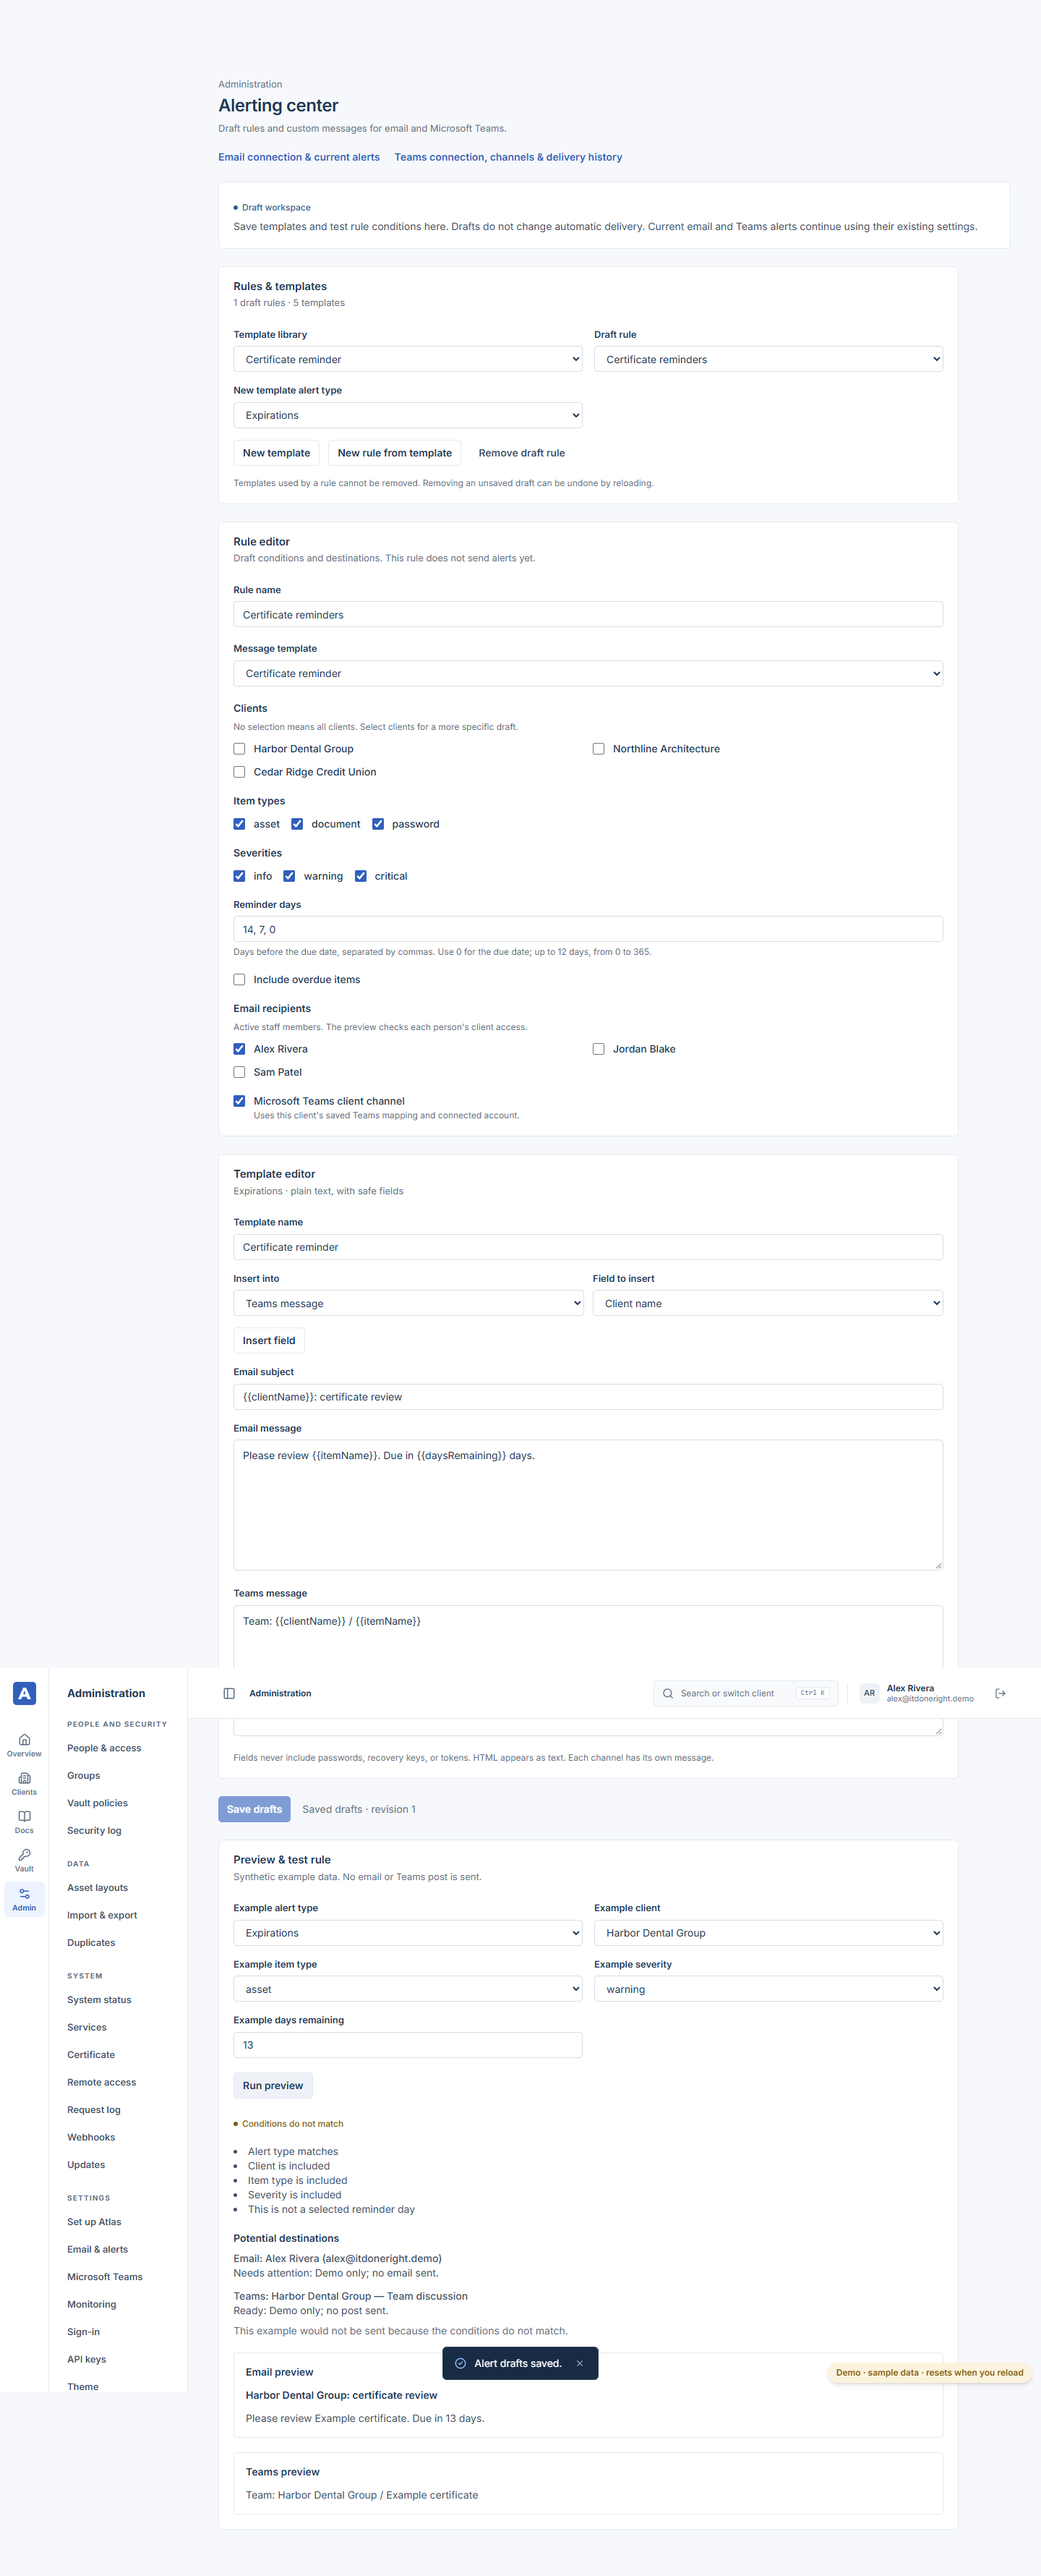
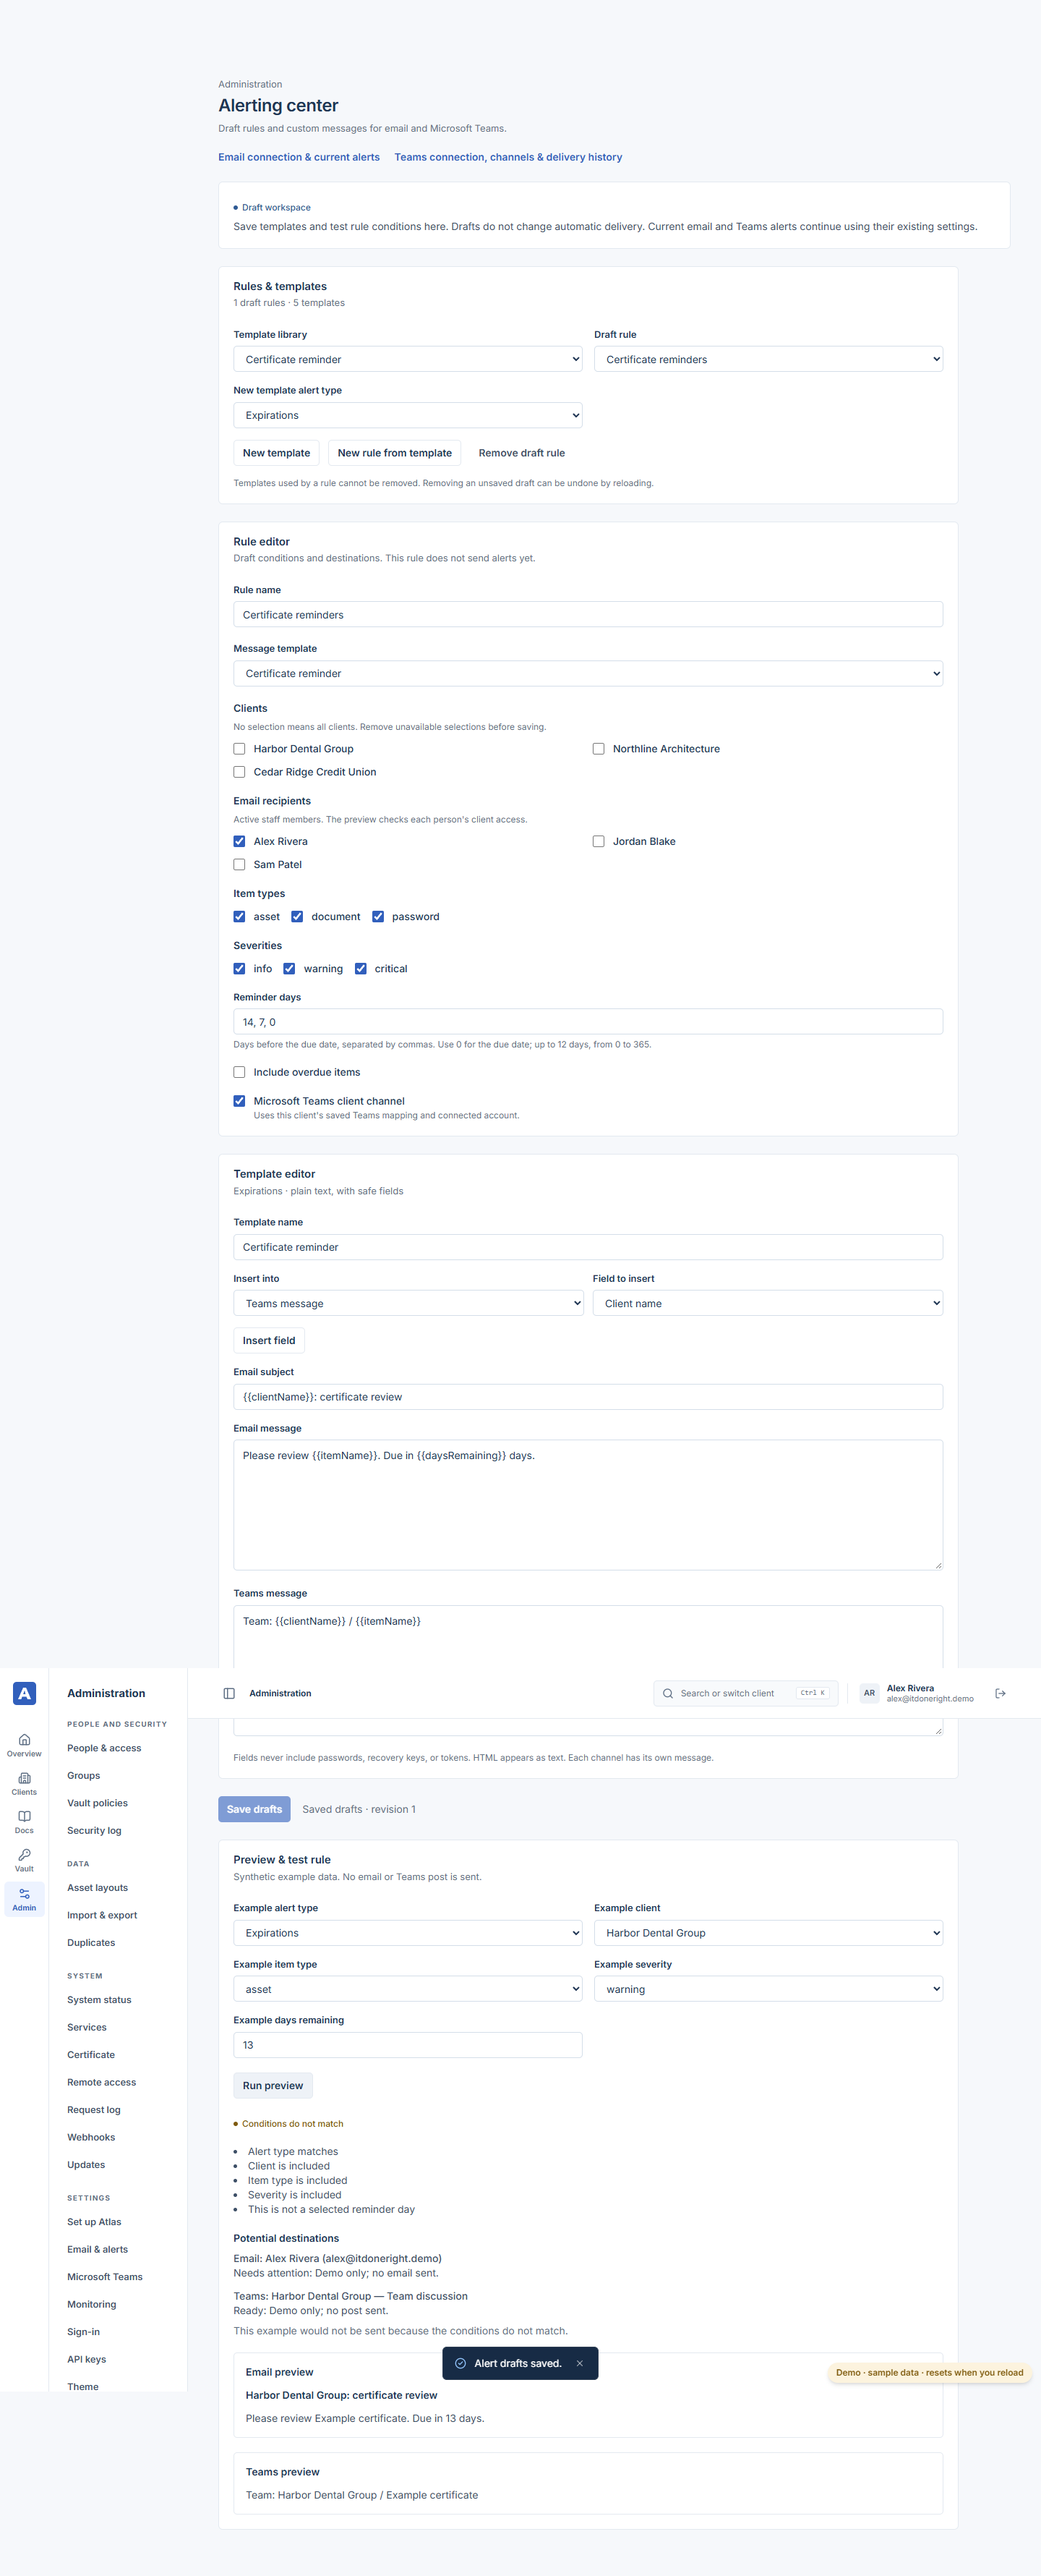
Allow administrators to repair unavailable alert audiences

Changed region(s): [[0.2188, 0.3117, 0.4062, 0.4364]]

diff --git a/apps/web/src/components/alerting/Audience.tsx b/apps/web/src/components/alerting/Audience.tsx
@@ -1,0 +1,80 @@
+import { ROLE_INFO, type AlertRule, type ClientSummary, type UserView } from '@atlas/shared';
+import { Checkbox } from '@/components/ui';
+
+type Choice = { id: string; label: string };
+function Selection({
+  title,
+  description,
+  options,
+  selected,
+  missing,
+  change,
+}: {
+  title: string;
+  description: string;
+  options: Choice[];
+  selected: string[];
+  missing: string;
+  change: (ids: string[]) => void;
+}) {
+  const unavailable = selected
+    .filter((id) => !options.some((o) => o.id === id))
+    .map((id, index) => ({ id, label: `${missing} ${index + 1} — remove selection` }));
+  return (
+    <fieldset className="space-y-3">
+      <legend className="mb-2 text-sm font-semibold text-text">{title}</legend>
+      <p className="text-xs text-muted">{description}</p>
+      <div className="grid max-h-48 gap-3 overflow-auto sm:grid-cols-2">
+        {[...options, ...unavailable].map((option) => (
+          <Checkbox
+            key={option.id}
+            label={option.label}
+            checked={selected.includes(option.id)}
+            onChange={() =>
+              change(
+                selected.includes(option.id) ? selected.filter((id) => id !== option.id) : [...selected, option.id],
+              )
+            }
+          />
+        ))}
+      </div>
+    </fieldset>
+  );
+}
+
+export function Audience({
+  rule,
+  clients,
+  users,
+  change,
+}: {
+  rule: AlertRule;
+  clients: ClientSummary[];
+  users: UserView[];
+  change: (r: AlertRule) => void;
+}) {
+  const staff = users.filter((u) => (!u.disabled && ROLE_INFO[u.role].staff) || rule.emailUserIds.includes(u.id));
+  return (
+    <>
+      <Selection
+        title="Clients"
+        description="No selection means all clients. Remove unavailable selections before saving."
+        options={clients.map((c) => ({ id: c.id, label: c.name }))}
+        selected={rule.clientIds}
+        missing="Unavailable client"
+        change={(clientIds) => change({ ...rule, clientIds })}
+      />
+      <Selection
+        title="Email recipients"
+        description="Active staff members. The preview checks each person's client access."
+        options={staff.map((u) => ({
+          id: u.id,
+          label: !u.disabled && ROLE_INFO[u.role].staff ? u.name : `${u.name} (unavailable — remove selection)`,
+        }))}
+        selected={rule.emailUserIds}
+        missing="Unavailable staff member"
+        change={(emailUserIds) => change({ ...rule, emailUserIds })}
+      />
+    </>
+  );
+}

diff --git a/apps/web/src/components/alerting/RuleEditor.tsx b/apps/web/src/components/alerting/RuleEditor.tsx
@@ -2,13 +2,13 @@ import { useState } from 'react';
 import {
   ALERT_ITEM_KINDS,
   ALERT_SEVERITIES,
-  ROLE_INFO,
   type AlertRule,
   type AlertTemplate,
   type ClientSummary,
   type UserView,
 } from '@atlas/shared';
 import { Card, CardHeader, Checkbox, Field, Input, Select } from '@/components/ui';
+import { Audience } from './Audience';
 
 function toggle<T>(items: T[], item: T) {
   return items.includes(item) ? items.filter((v) => v !== item) : [...items, item];
@@ -58,22 +58,7 @@ export function RuleEditor({
             </Select>
           )}
         </Field>
-        <fieldset className="space-y-3">
-          <legend className="mb-2 text-sm font-semibold text-text">Clients</legend>
-          <p className="text-xs text-muted">
-            No selection means all clients. Select clients for a more specific draft.
-          </p>
-          <div className="grid max-h-48 gap-3 overflow-auto sm:grid-cols-2">
-            {clients.map((c) => (
-              <Checkbox
-                key={c.id}
-                label={c.name}
-                checked={rule.clientIds.includes(c.id)}
-                onChange={() => change({ ...rule, clientIds: toggle(rule.clientIds, c.id) })}
-              />
-            ))}
-          </div>
-        </fieldset>
+        <Audience rule={rule} clients={clients} users={users} change={change} />
         <fieldset>
           <legend className="mb-3 text-sm font-semibold text-text">Item types</legend>
           <div className="flex flex-wrap gap-4">
@@ -124,22 +109,6 @@ export function RuleEditor({
             />
           </>
         )}
-        <fieldset className="space-y-3">
-          <legend className="mb-2 text-sm font-semibold text-text">Email recipients</legend>
-          <p className="text-xs text-muted">Active staff members. The preview checks each person's client access.</p>
-          <div className="grid max-h-48 gap-3 overflow-auto sm:grid-cols-2">
-            {users
-              .filter((u) => !u.disabled && ROLE_INFO[u.role].staff)
-              .map((u) => (
-                <Checkbox
-                  key={u.id}
-                  label={u.name}
-                  checked={rule.emailUserIds.includes(u.id)}
-                  onChange={() => change({ ...rule, emailUserIds: toggle(rule.emailUserIds, u.id) })}
-                />
-              ))}
-          </div>
-        </fieldset>
         <Checkbox
           label="Microsoft Teams client channel"
           description="Uses this client's saved Teams mapping and connected account."

diff --git a/e2e/alerting.spec.ts b/e2e/alerting.spec.ts
@@ -1,4 +1,7 @@
 import { resolve } from 'node:path';
+import { eq } from 'drizzle-orm';
+import { schema } from '@atlas/db';
+import type { AlertWorkspace } from '@atlas/shared';
 import { test, expect } from '@playwright/test';
 import { setupOwner, startApp } from '../apps/server/test/helpers';
 
@@ -36,6 +39,31 @@ test('alert drafts persist and a stale editor cannot overwrite another administr
     await expect(page.getByRole('alert')).toContainText('Another administrator saved these drafts');
     await page.reload();
     await expect(page.getByLabel('Template name', { exact: true })).toHaveValue('Saved elsewhere');
+    const client = (await owner.call('POST', '/api/clients', { name: 'Temporary client' })).data;
+    const user = (
+      await owner.call('POST', '/api/users', {
+        email: 'temporary@atlas.test',
+        name: 'Temporary technician',
+        role: 'technician',
+        allClients: 'read',
+        password: 'temporary alert staff 1234',
+        grants: [],
+      })
+    ).data;
+    const draft = (await owner.call('GET', '/api/settings/alerting')).data as AlertWorkspace;
+    draft.rules[0]!.clientIds = [client.id];
+    draft.rules[0]!.emailUserIds.push(user.id);
+    expect((await owner.call('PUT', '/api/settings/alerting', draft)).status).toBe(200);
+    await t.handle.db.delete(schema.clients).where(eq(schema.clients.id, client.id));
+    await t.handle.db.update(schema.users).set({ disabled: true }).where(eq(schema.users.id, user.id));
+    await page.reload();
+    await page.getByLabel('Draft rule', { exact: true }).selectOption(draft.rules[0]!.id);
+    await page.getByRole('checkbox', { name: 'Unavailable client 1 — remove selection', exact: true }).uncheck();
+    await page
+      .getByRole('checkbox', { name: 'Temporary technician (unavailable — remove selection)', exact: true })
+      .uncheck();
+    await page.getByRole('button', { name: 'Save drafts', exact: true }).click();
+    await expect(page.getByText('Alert drafts saved.', { exact: true })).toBeVisible();
   } finally {
     await context.close();
     await t.close();

diff --git a/apps/web/src/pages/Alerting.tsx b/apps/web/src/pages/Alerting.tsx
@@ -45,16 +45,17 @@ function AlertStudio({ initial }: { initial: AlertWorkspace }) {
       <legend className="sr-only">Alert drafts</legend>
       <Library editor={e} />
       <FormError message={clients.error?.message ?? users.error?.message} />
-      {e.rule && (
+      {e.rule && clients.data && users.data && (
         <RuleEditor
           key={e.rule.id}
           rule={e.rule}
           templates={e.workspace.templates}
-          clients={clients.data ?? []}
-          users={users.data ?? []}
+          clients={clients.data}
+          users={users.data}
           change={e.changeRule}
         />
       )}
+      {e.rule && (clients.isLoading || users.isLoading) && <Skeleton className="h-80" />}
       {e.template && <TemplateEditor key={e.template.id} template={e.template} change={e.changeTemplate} />}
       <FormError message={e.error} />
       <div className="flex flex-wrap items-center gap-4">

diff --git a/docs/ALERTING-CENTER-HANDOFF.md b/docs/ALERTING-CENTER-HANDOFF.md
@@ -67,6 +67,12 @@ describe drafts or previews as live automated delivery before the workers are wi
   newer run, so use the PR's latest checks rather than assuming the first run is current.
 - Final privacy review: added `alerting` to private request-log paths so verbose diagnostics cannot store custom
   messages or previews. Existing request-log redaction tests now cover both new endpoints.
+- Draft audience selections remain visible when a client is deleted or a staff member becomes ineligible, so
+  administrators can remove the stale selection and save again. The database browser test covers this recovery.
+- CI run [39876464703](https://github.com/ithealthtech/nexus-atlas/actions/runs/39876464703) passed **all eight jobs**
+  for commit `0cac8484dd378f51999050dec6b31b875a60c022`, including PostgreSQL 16/17, both browser suites, Docker,
+  Linux services, Windows build and Windows client. The audience-recovery follow-up still needs its own latest CI
+  result recorded. The request-log redaction unit test also passed locally (100 local standalone tests in total).
 - Remaining before calling the checkpoint verified: address any CI failures and record the result below.
 
 ### Explicitly not wired yet
